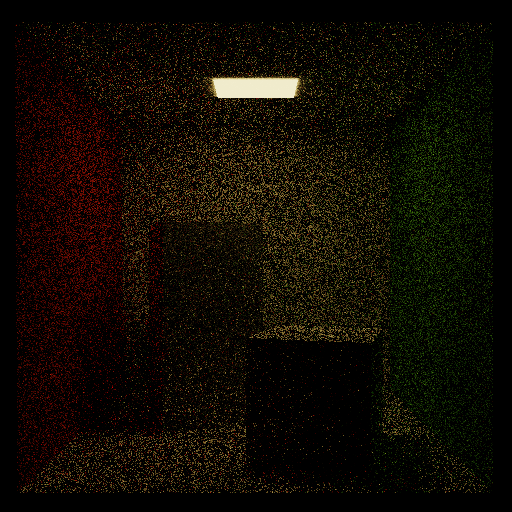
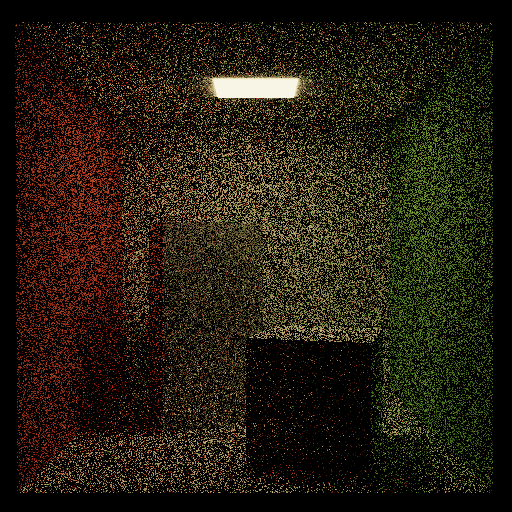
gamma

diff --git a/pathtracer.cpp b/pathtracer.cpp
@@ -111,13 +111,21 @@ std::pair<Vector3f, float> PathTracer::sampleNextDir() {
 
 
 void PathTracer::toneMap(QRgb *imageData, std::vector<Vector3f> &intensityValues) {
-
+    const float gamma = 2.2f;
     for(int y = 0; y < m_height; ++y) {
         for(int x = 0; x < m_width; ++x) {
             int offset = x + (y * m_width);
-
             Vector3f newcolor = intensityValues[offset].cwiseQuotient(Vector3f(1.0f, 1.0f, 1.0f) + intensityValues[offset]);
-            imageData[offset] = qRgb(newcolor[0] * 255, newcolor[1] * 255, newcolor[2] * 255);
+            Vector3f gammaCorrectedColor;
+            gammaCorrectedColor[0] = std::pow(newcolor[0], 1.0f / gamma);
+            gammaCorrectedColor[1] = std::pow(newcolor[1], 1.0f / gamma);
+            gammaCorrectedColor[2] = std::pow(newcolor[2], 1.0f / gamma);
+
+            imageData[offset] = qRgb(
+                std::min(255.0f, std::max(0.0f, gammaCorrectedColor[0] * 255)),
+                std::min(255.0f, std::max(0.0f, gammaCorrectedColor[1] * 255)),
+                std::min(255.0f, std::max(0.0f, gammaCorrectedColor[2] * 255))
+                );
         }
     }
     outputPFM("/Users/shania/cs2240/path-zguo47/student_outputs/milestone/cornell_box_milestone.pfm", 512, 512, intensityValues);
